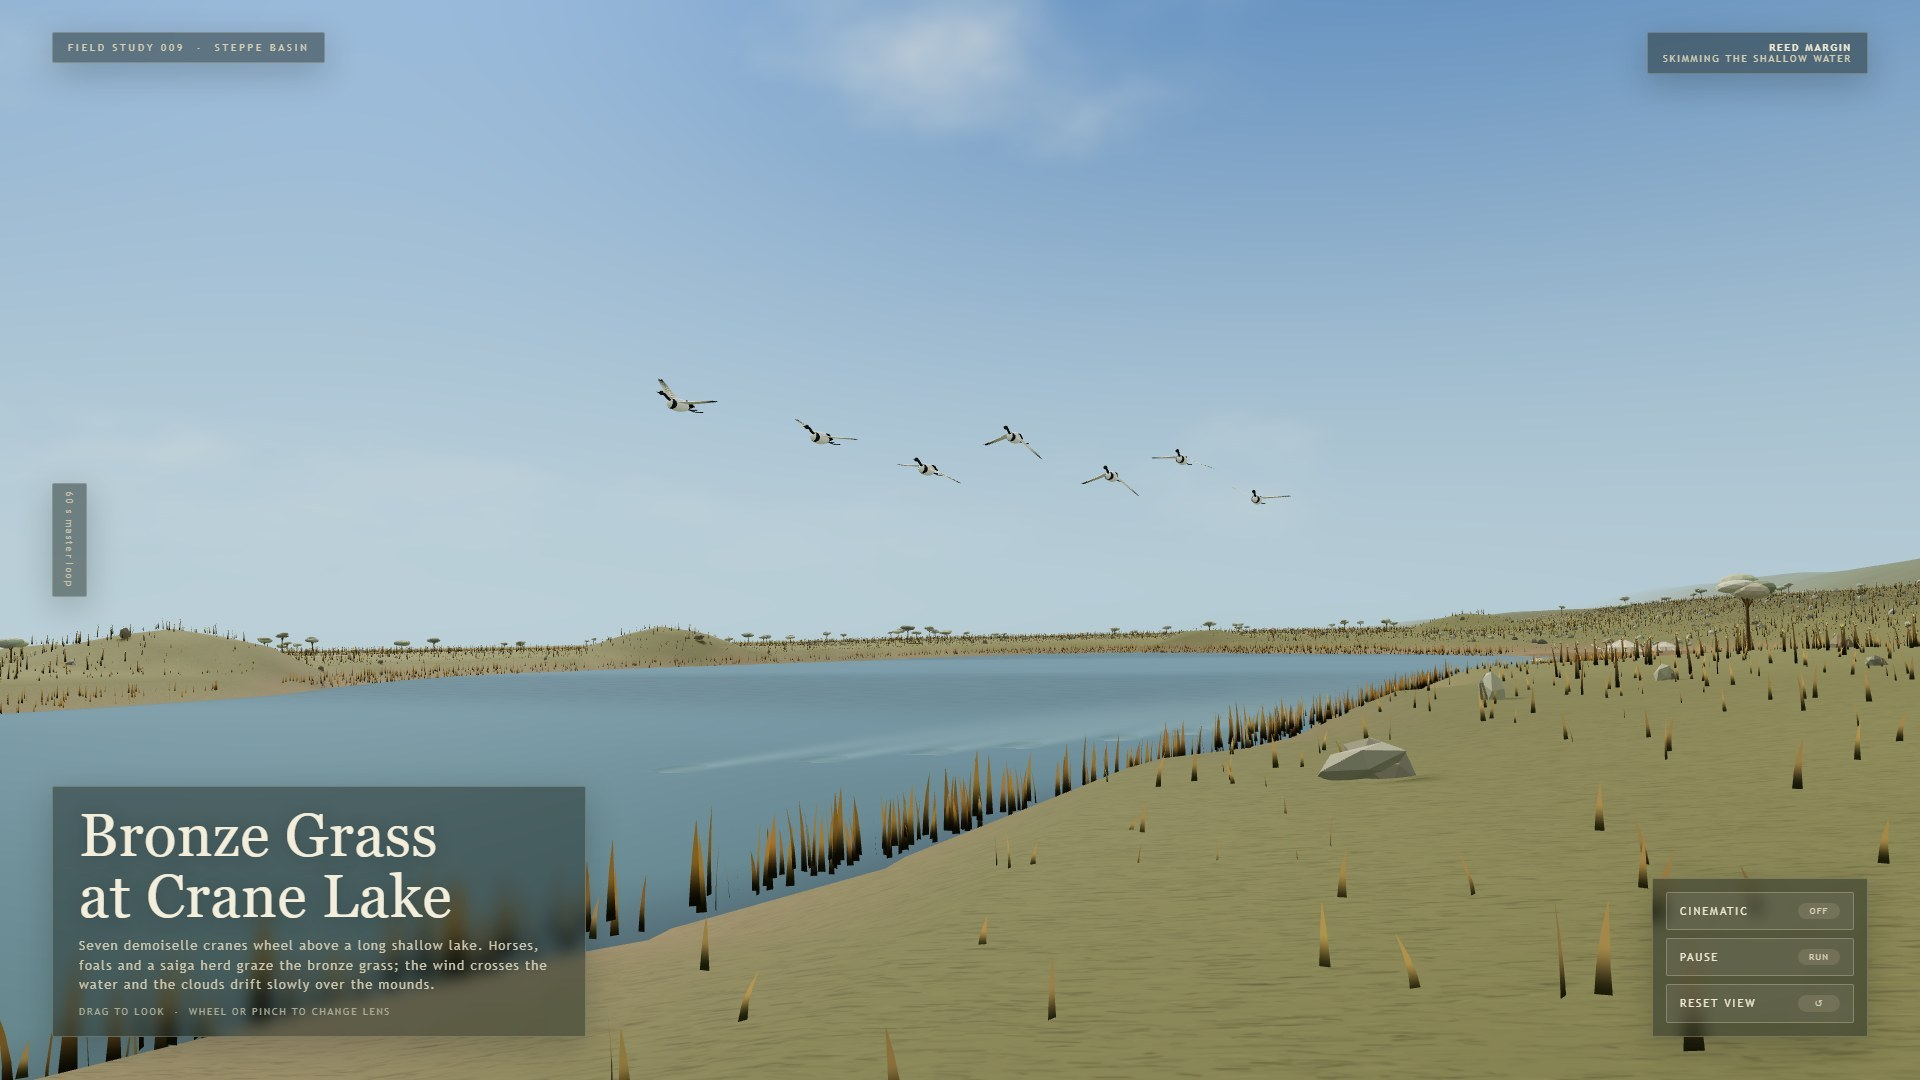
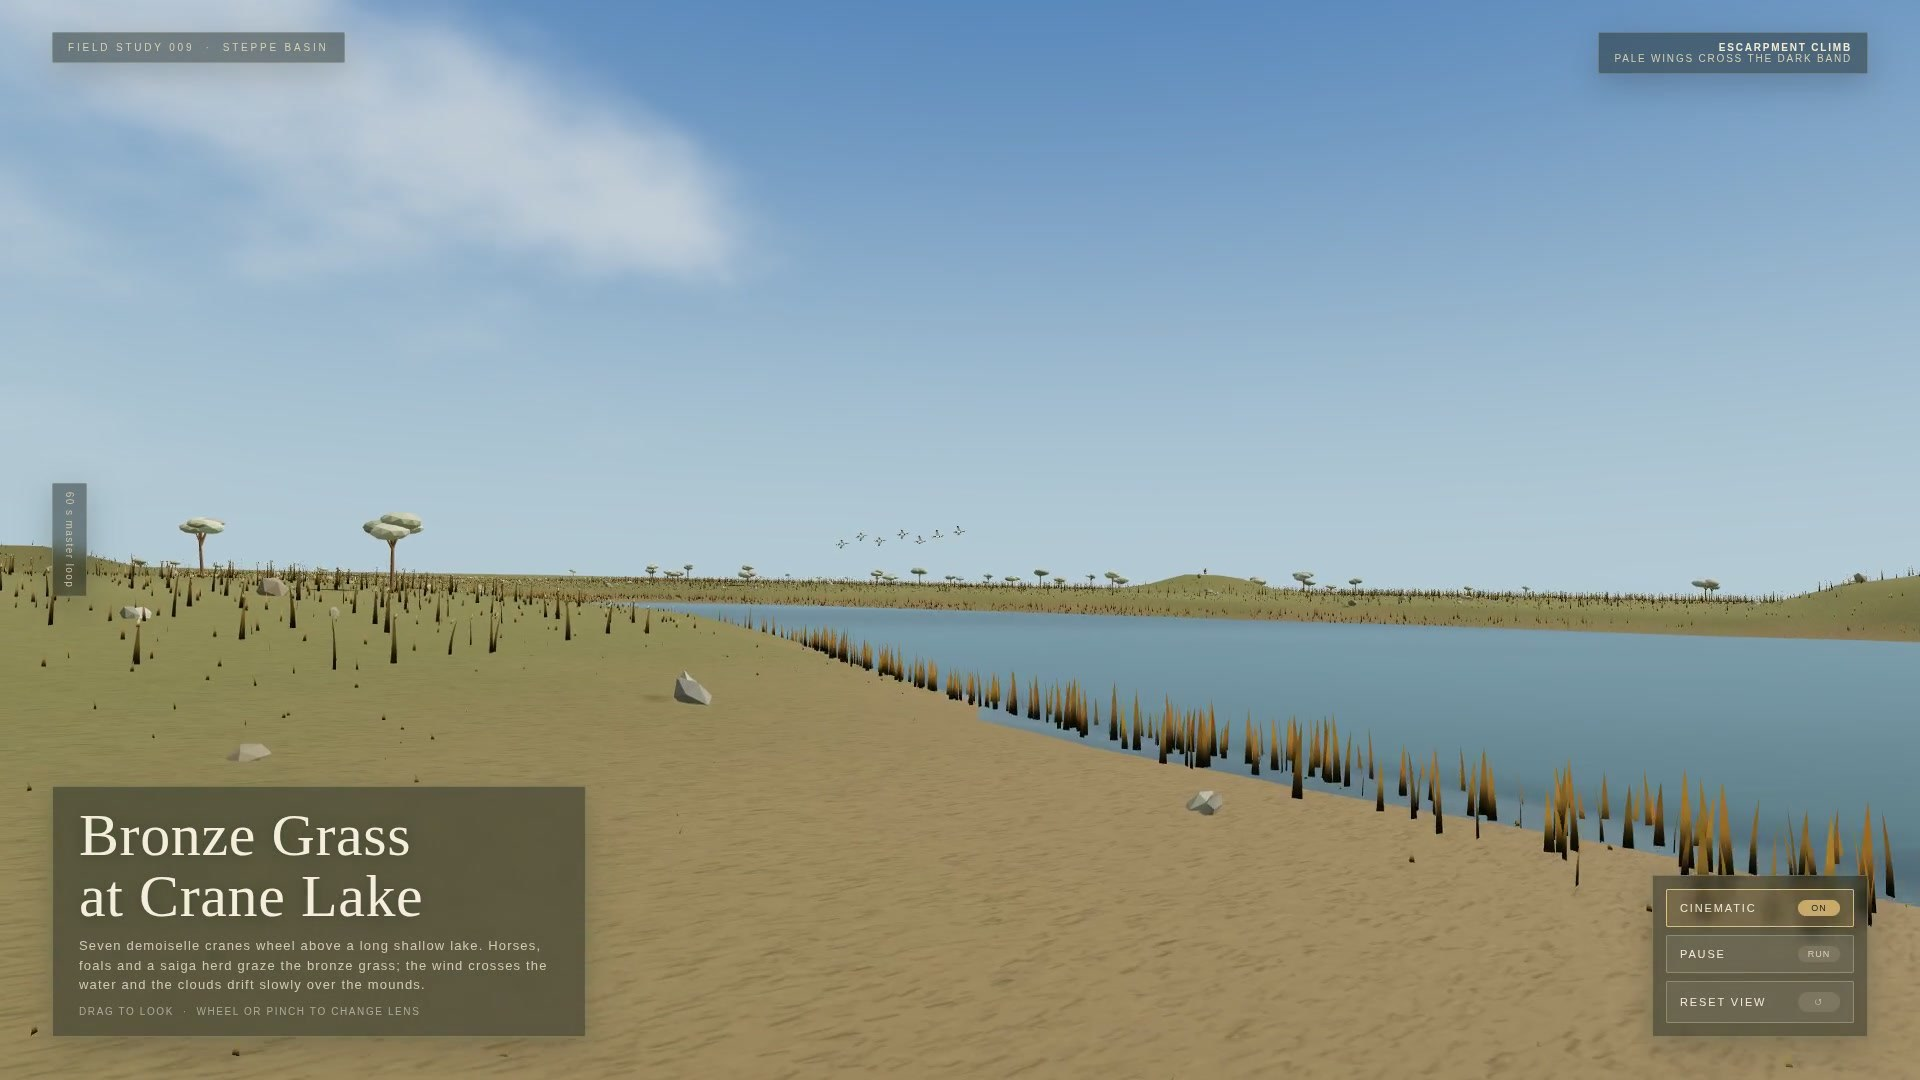
Record HY4 bronze-grass with cinematic on; fix cinematic detector for aria-checked switches

diff --git a/tools/dsh_daily/record.py b/tools/dsh_daily/record.py
@@ -37,7 +37,7 @@ LOADER = """(()=>{const l=document.querySelector('#loader,#loading,.loader,.load
 if(!l)return 'gone';const s=getComputedStyle(l);return s.display+'|'+s.opacity})()"""
 RAF = """new Promise(r=>{let c=0,t0=performance.now();function f(){c++;
 if(performance.now()-t0<1000) requestAnimationFrame(f); else r(c)} requestAnimationFrame(f)})"""
-_PICK = """const SEL=['btnCinematic','cinematic','btn-cinematic','btn-cine','cin'];
+_PICK = """const SEL=['cinematicBtn','btnCinematic','cinematicbtn','cinematic','btn-cinematic','btn-cine','toggleCinematic','cin'];
   let b=null; for(const id of SEL){ b=document.getElementById(id); if(b) break; }
   const boxes=[...document.querySelectorAll('input[type=checkbox]')];
   const box=boxes.find(e=>/cine/i.test((e.id||'')+' '+(e.name||'')+' '+(e.title||'')))
@@ -50,6 +50,15 @@ _PICK = """const SEL=['btnCinematic','cinematic','btn-cinematic','btn-cine','cin
       .filter(e=>/cinematic/i.test(txt(e)) && txt(e).length<=40);
     all.sort((x,y)=>txt(x).length-txt(y).length);
     b=all[0]||null;
+  }
+  // the label (or an inner span) is often nested inside the switch that owns the state, so climb
+  // until we hit the element carrying aria-checked/aria-pressed. Without this the state reads empty,
+  // the recorder clicks, and a switch that ships ON gets switched OFF.
+  if(b){
+    let e=b;
+    for(let i=0;i<4 && e;i++,e=e.parentElement){
+      if(e.getAttribute && (e.hasAttribute('aria-checked')||e.hasAttribute('aria-pressed'))){ b=e; break; }
+    }
   }"""
 FIND = """(()=>{""" + _PICK + """
   if(!b && !box) return 'none';
